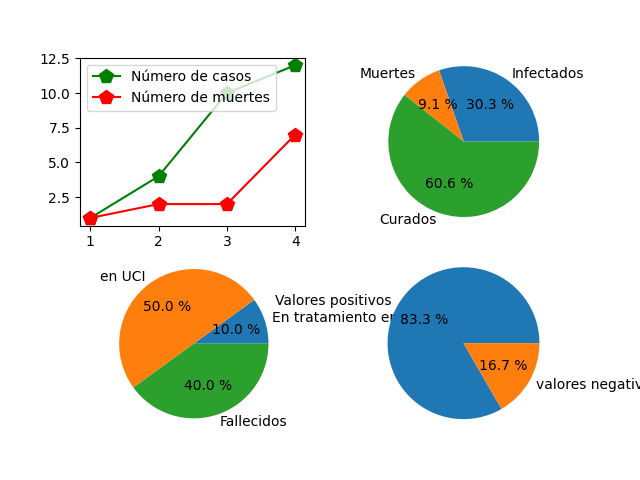
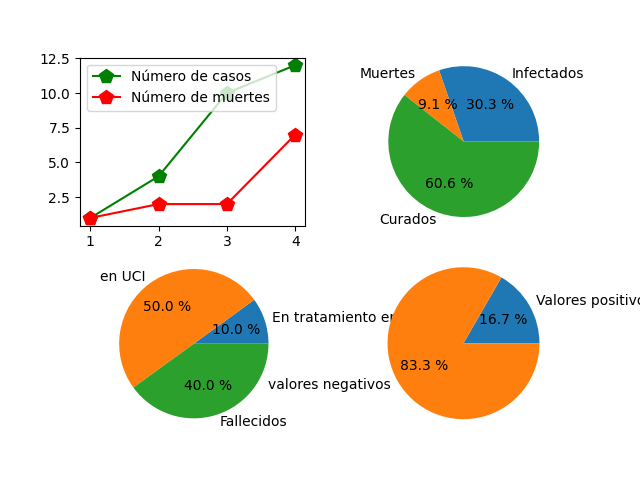
ans

Changed region(s): [[0.4062, 0.5312, 0.8438, 0.875], [0.8438, 0.5938, 1.0, 0.6562], [0.8438, 0.7812, 1.0, 0.8125]]

diff --git a/main.py b/main.py
@@ -340,7 +340,7 @@ def grafica1(p):
         plt.pie(Estado, labels=nombres, autopct="%0.1f %%")
         plt.axis("equal")
         #Grafica-pie3
-        Estado = [10, 2]#valores de la base de datos
+        Estado = [2, 10]#valores de la base de datos
         nombres = ["Valores positivos","valores negativos"]
         plt.subplot(224)
         plt.pie(Estado, labels=nombres, autopct="%0.1f %%")
